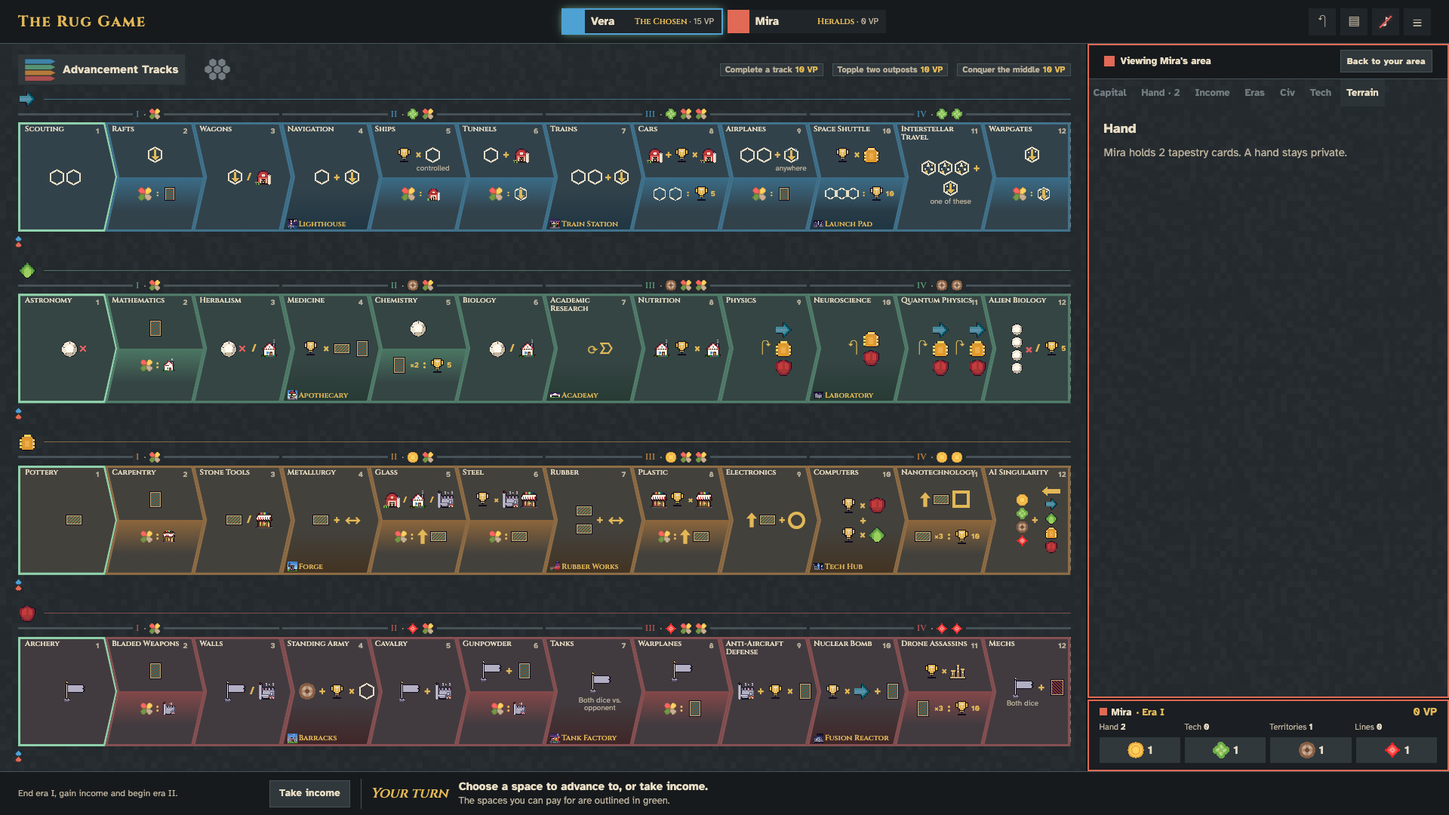
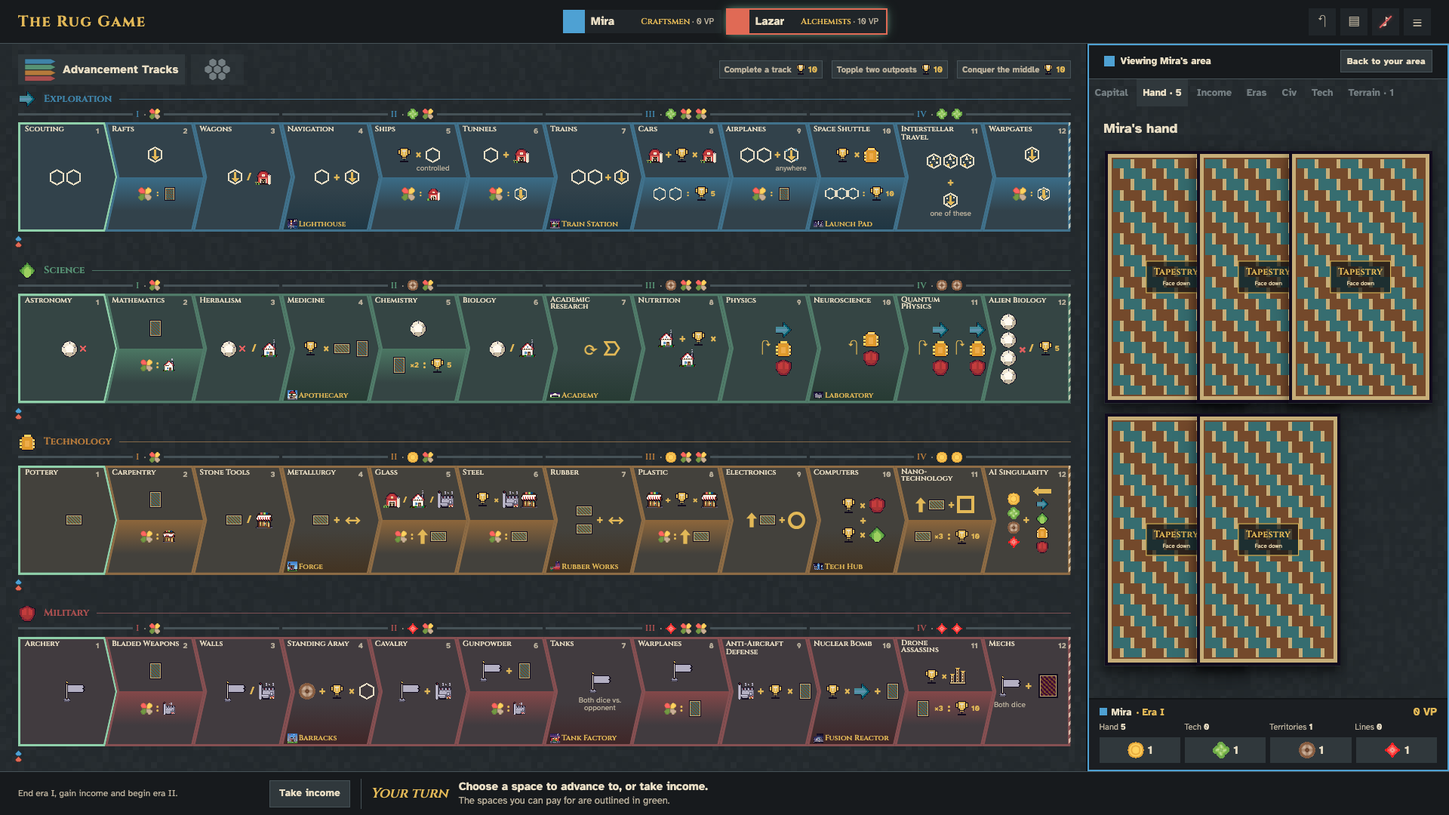
Fix #158: draw the hand's tapestry cards big enough to read
The Hand tab drew its cards at 0.42 in one fan overlapping by 70 px,
cutting off their names. The owner chose rows of overlapping cards
(option B of docs/ui/prompt-and-hand.html): cards at 0.6, as many to a
row as leave each covered card 120 px for its name.

fanRows() in card-sizes.js works out the rows; CardFan's new wrap prop
measures its width and lays the cards on a grid of them. Both hands use
it: the viewer's cards and another player's backs (#156). Hover and
focus still raise a card and show it in full.

The player-area browser test gives the screen a hand of five and checks
the rows at every desktop size.

diff --git a/src/lib/components/player/CardFan.svelte b/src/lib/components/player/CardFan.svelte
@@ -13,6 +13,8 @@
 	 * @property {'hand' | 'shelf'} [look='hand'] - 'hand': the hovered card rises and the chosen one has the focus outline; 'shelf': as a decision's card shelf, the hovered and chosen cards are outlined in gold, the chosen one glows and lifts, and a disabled one is faded
 	 * @property {boolean} [lift=true] - In the shelf look, whether the chosen card lifts; whole cards such as civilizations stay where they stand, so the outline fits them
 	 * @property {boolean} [interactive=true] - Whether cards are buttons that can be hovered, focused or selected; false draws a presentation-only fan
+	 * @property {boolean} [wrap=false] - Lay the cards in rows across the fan's width, as many to a row as leave each covered card enough to show its name, instead of one row overlapping by `overlap` (#158)
+	 * @property {number} [cardWidth=0] - With `wrap`: one card's drawn width, such as its ScaledCard's
 	 * @property {string} [label='Cards'] - Names the list for assistive technology
 	 * @property {Function} [onCardFanInspect] - Callback fired with { index, item } on hover or focus, and { index: null, item: null } on leave
 	 * @property {Function} [onCardFanSelect] - Callback fired with { index } when a card is clicked or chosen with Enter
@@ -31,6 +33,7 @@
 
 <script>
 	import { ComponentEvent } from '../../component-event.js';
+	import { FAN_ROWS, fanRows } from '../../cards/card-sizes.js';
 
 	/** @type {CardFanProps} */
 	let {
@@ -44,11 +47,19 @@
 		look = 'hand',
 		lift = true,
 		interactive = true,
+		wrap = false,
+		cardWidth = 0,
 		label = 'Cards',
 		onCardFanInspect,
 		onCardFanSelect,
 		...attr
 	} = $props();
+
+	/** The fan's width, which a wrapped fan fills with rows. */
+	let width = $state(0);
+	let rows = $derived(
+		wrap ? fanRows(width, cardWidth, items.length, FAN_ROWS) : null
+	);
 
 	/**
 	 * @param {Event} event
@@ -104,6 +115,18 @@
 			? selected.includes(index)
 			: index === selected;
 	}
+
+	/**
+	 * A card's pull under the one before it: none for the first, nor in rows, which space their cards by grid.
+	 * @param {number} index
+	 * @returns {string | undefined}
+	 */
+	function margin(index) {
+		if (rows) {
+			return undefined;
+		}
+		return index === 0 ? '0' : `${-overlap}px`;
+	}
 </script>
 
 <div
@@ -112,14 +135,18 @@
 	{...attr}
 	class="rg-card-fan rg-card-fan--{look} {attr.class ?? ''}"
 	class:rg-card-fan--static={!interactive}
-	class:rg-card-fan--flat={!lift}>
+	class:rg-card-fan--flat={!lift}
+	class:rg-card-fan--wrap={wrap}
+	style:--rg-card-fan-per-row={rows?.perRow}
+	style:--rg-card-fan-step={rows ? `${rows.step}px` : undefined}
+	bind:clientWidth={width}>
 	{#each items as item, index (key ? key(item, index) : index)}
 		{#if interactive}
 			<button
 				type="button"
 				class="rg-card-fan--card"
 				class:rg-card-fan--selected={chosen(index)}
-				style:margin-left={index === 0 ? '0' : `${-overlap}px`}
+				style:margin-left={margin(index)}
 				aria-pressed={selected === null ? undefined : chosen(index)}
 				aria-label={labels?.[index]}
 				disabled={disabled.includes(index)}
@@ -134,7 +161,7 @@
 			<div
 				role="img"
 				class="rg-card-fan--card"
-				style:margin-left={index === 0 ? '0' : `${-overlap}px`}
+				style:margin-left={margin(index)}
 				aria-label={labels?.[index]}>
 				{@render card(item, index)}
 			</div>
@@ -147,6 +174,21 @@
 		display: flex;
 		align-items: flex-start;
 		padding: var(--space-3) 0 var(--space-8);
+	}
+
+	/* Rows across the fan's width (issue 158): each column is a step wide and a card overhangs the next one's start, so it
+	   covers the card before it; the last card of a row fits, as fanRows() keeps it inside the width. */
+	.rg-card-fan--wrap {
+		display: grid;
+		grid-template-columns: repeat(
+			var(--rg-card-fan-per-row),
+			var(--rg-card-fan-step)
+		);
+		row-gap: var(--space-6);
+	}
+
+	.rg-card-fan--wrap .rg-card-fan--card {
+		width: max-content;
 	}
 
 	/* On a shelf the cards stand on one line; the shelf around the fan gives the room. */

diff --git a/src/library/sections/player/CardFan.svelte b/src/library/sections/player/CardFan.svelte
@@ -9,6 +9,15 @@
 	import Section from '../../Section.svelte';
 
 	const hand = ['academia', 'age-of-discovery', 'age-of-sail', 'trap'];
+	const long = [
+		'industrialism',
+		'trade-economy',
+		'alliance',
+		'feudalism',
+		'renaissance',
+	];
+	/** The Hand tab's scale (#158). */
+	const scale = 0.6;
 
 	/** @type {string | null} */
 	let inspected = $state(null);
@@ -59,6 +68,46 @@
 				</div>
 			{/snippet}
 		</CardFan>
+	</Example>
+	<Example
+		label="wrap cardWidth={191}  (the Hand tab's rows in its 436 px at 1920×1080, #158; another player's backs use them too)"
+		wide>
+		<div style:width="436px">
+			<CardFan
+				items={long}
+				wrap
+				cardWidth={scale * CARD_SIZES.tapestry.width}
+				label="Tapestry cards in hand"
+				onCardFanInspect={(/** @type {any} */ event) =>
+					(inspected = event.value.item)}>
+				{#snippet card(/** @type {string} */ id)}
+					<ScaledCard
+						{scale}
+						{...CARD_SIZES.tapestry}>
+						<TapestryCard {id} />
+					</ScaledCard>
+				{/snippet}
+			</CardFan>
+		</div>
+	</Example>
+	<Example
+		label="wrap cardWidth={191} at 316 px  (1440×900: two to a row)"
+		wide>
+		<div style:width="316px">
+			<CardFan
+				items={long.slice(0, 3)}
+				wrap
+				cardWidth={scale * CARD_SIZES.tapestry.width}
+				label="Tapestry cards in hand">
+				{#snippet card(/** @type {string} */ id)}
+					<ScaledCard
+						{scale}
+						{...CARD_SIZES.tapestry}>
+						<TapestryCard {id} />
+					</ScaledCard>
+				{/snippet}
+			</CardFan>
+		</div>
 	</Example>
 	<Example
 		label={`look="shelf" selected={[${paid.join(', ')}]} disabled={[${waiting.join(', ')}]} overlap={72}  (several chosen; the rest wait once two are; CardShelf's look)`}

diff --git a/src/lib/cards/card-sizes.js b/src/lib/cards/card-sizes.js
@@ -33,3 +33,32 @@ export function fitScale(available, tallest, { min, room }) {
 	}
 	return Math.min(1, Math.max(min, (available - room) / tallest));
 }
+
+/** How a hand's rows space their cards (#158): a covered card shows at least `minStep` pixels, enough for its name, and cards that fit side by side keep `gap` between them. */
+export const FAN_ROWS = Object.freeze({ minStep: 120, gap: 14 });
+
+/**
+ * Rows of overlapping cards across a width (#158): how many cards a row holds and how far apart their left edges are,
+ * in whole pixels. A row holds as many cards as leave each covered one `minStep` pixels, but no more than there are; the
+ * last card of a row shows in full. Until the width is measured, a row holds one card.
+ * @param {number} width - The width the rows may take, in CSS pixels; 0 while unmeasured
+ * @param {number} cardWidth - One card's drawn width
+ * @param {number} count - How many cards there are
+ * @param {{ minStep: number, gap: number }} spacing - FAN_ROWS
+ * @returns {{ perRow: number, step: number }}
+ */
+export function fanRows(width, cardWidth, count, { minStep, gap }) {
+	const apart = Math.floor(cardWidth + gap);
+	if (width <= cardWidth) {
+		return { perRow: 1, step: apart };
+	}
+	const fit = Math.floor((width - cardWidth) / minStep) + 1;
+	const perRow = Math.max(1, Math.min(count, fit));
+	if (perRow === 1) {
+		return { perRow, step: apart };
+	}
+	return {
+		perRow,
+		step: Math.min(apart, Math.floor((width - cardWidth) / (perRow - 1))),
+	};
+}

diff --git a/src/screens/game/PlayerTabs.svelte b/src/screens/game/PlayerTabs.svelte
@@ -93,6 +93,9 @@
 		...attr
 	} = $props();
 
+	/** The Hand tab's cards, big enough to read their text, as the Eras tab's era card is (#158). */
+	const HAND_SCALE = 0.6;
+
 	/** The viewer's seat: `seat` itself unless another is given. */
 	let viewerSeat = $derived(viewer === undefined ? seat : viewer);
 	let own = $derived(viewerSeat === seat);
@@ -210,13 +213,14 @@
 			{#if own && hand.length}
 				<CardFan
 					items={hand}
-					overlap={70}
+					wrap
+					cardWidth={HAND_SCALE * CARD_SIZES.tapestry.width}
 					label="Tapestry cards in hand"
 					onCardFanInspect={(/** @type {ComponentEvent} */ event) =>
 						inspect('tapestry', event.value.item, event)}>
 					{#snippet card(/** @type {string} */ id)}
 						<ScaledCard
-							scale={0.42}
+							scale={HAND_SCALE}
 							{...CARD_SIZES.tapestry}>
 							<TapestryCard data={tapestryCardData(id)} />
 						</ScaledCard>
@@ -230,11 +234,12 @@
 					items={opponentHand}
 					labels={handLabels}
 					interactive={false}
-					overlap={70}
+					wrap
+					cardWidth={HAND_SCALE * CARD_SIZES.tapestry.width}
 					label={words.handHeading}>
 					{#snippet card()}
 						<ScaledCard
-							scale={0.42}
+							scale={HAND_SCALE}
 							{...CARD_SIZES.tapestry}>
 							<TapestryCardBack
 								frame={false}

diff --git a/README.md b/README.md
@@ -30,7 +30,7 @@ The component library now uses the approved resources in prices and chips, incom
 
 The **UI/UX handoff for #3** is in [docs/ui/README.md](docs/ui/README.md). It is the manifest for building the real game pages: layout, typography, colours, control states, placement and decision examples. The HTML pages are interactive mockups with fixture data.
 
-**The landing page, the lobby (#25) and the play screen (#26) are built** and run on the real table API. Sign in by name, create or join a table, set it up and start; then play: the Advancement Tracks with the spaces you can pay for, the World Map as the real board's hex grid, composed from the terrain art (#6), the footer turn (income, or advance), and a designed prompt for every other decision (#28): resources and payments with their art, cards on a shelf above the panel, the map's territories with each explore's tile, turn and VP, buildings and landmarks placed on the Capital tab, dice and tracks, and the gold income turn with its steps. Several resources, cards or tiles are picked one by one, as on Board Game Arena (#75): each resource to choose is a row of the four resources, cards and tiles are pictures pressed several at once, and the panel sits at the screen's centre; an advance with a choice of payment opens that panel as soon as its space is picked. Every roll of the dice tumbles in the middle of every screen at the table, lands on the rolled faces under a caption, and fades (#61). A first turn is never a choice, so the game takes every player's income turn 1 as setup ends; each player then sees a notice, once, saying so and what they start with. A turn with no advance to pay for says so, with a gold **Take income** where **Advance** sits (#77). A turn does not pass the moment its last choice resolves (#146): the footer says "Nothing left to do this turn" with a gold **End turn** that counts down 6 seconds, so you can see what the choice did and take it back with Undo; pressing it, or the countdown ending, passes the turn. Income turn 1, which nobody chooses, passes at once. **How to play** in the game's menu explains the rules in our own words, one tab per part of the game, and a **Keyboard shortcuts** entry opens it on the list of every shortcut; hovering a player's chip reads their civilization's full ability (#42). The game plays from the keyboard too (#83): **I** takes income after asking first (as the **Take income** button does), **A** then **1–4** advances on a track, **Q W E R T Y U** switch the player tabs, **M** goes to the World Map, **1–5** show a player's tabs, and holding **Tab** shows the log and scores. Each track space shows its benefit and its bonus, as on the printed board (#59); at setup each capital mat on offer is its real 9×9 grid (#56) and the civilization cards are whole at full size (#57, #58). Each base mat's impassable plots are one 2.5D picture, its relief, laid over natural ground (#82): mountains, woods, reed beds round dark pools, jungle, desert buttes and rocky hills that join across the grid lines where the plots touch, with no red X. The Architects' cubes are small pieces on their plots, and a building on an impassable plot clears the relief there. The player area (#27) has the Capital, Hand, Income, Eras, Civ, Tech and Terrain tabs, with real tech and tapestry cards. Clicking another player's chip in the header shows their tabs in the player area, read-only and bordered in their colour, with their hand as a count and a face-down tapestry card as a back; their compact summary also follows the inspected player, without revealing private information (#145, #157, owner 2026-10-30). Their chip again, your own, **Back to your area** or Escape goes back, restoring your own summary and pending-resource preview. A whole base game can be played with the mouse. At a hot-seat table, a pass screen (#30) stands between players: it names the next one, whose view isn't even loaded until they take the screen. A defender at a hot-seat table answers a conquest themselves, trap or not, so nothing gives a trap away. When the game ends, the results screen (#29) shows the final standings with each player's VP by source, how any tie was decided and the table's rules; the host can deal again. The header's log button opens the table log and the current scores; sound cues start muted, and a little motion marks what just happened. **Plans & Ploys** can be switched on in the lobby (#32): as setup ends the players draft landmark cards, the last player drawing one per player and each keeping one, shown on the Civ tab with how far its goal is; the card's landmark comes at the end of the turn its goal is met; and the space stack adds three tiles that give 5 VP whenever you advance on their track, and the Monolith. Its 13 tapestry cards are in the deck (#33): among them Entertain the Masses with the Stadium, and five response cards. A defender may answer a conquest with Retreat, Surprise Party or Surrender as well as a trap, and an attacker may cancel a trap with Double Cross or Stolen Plans, asked whenever they hold any card so nobody learns who holds one; How to play has a Response cards tab. Its civilizations join the deck too (#33, #165): all 10, so a Plans & Ploys table deals from 26. The Islanders' card on the Civ tab is a wide seascape with their mat over it: the printed centre hex and six hexes round it, which light up when an explore may land there (#165). Each plays as its mat says: hovering the player's chip reads its full text, and its card on the Civ tab shows what it has used, the Tinkerers' and Spies' options struck through and the Utilitarians' tokens beside the landmarks they switch on; the Treasure Hunters' dice tumble in the tray, and the tile on the Aliens' mat shows on the Terrain tab. With Plans & Ploys on, the lobby also offers the variant **All civilizations from Plans & Ploys**, which deals only those 10 (R116). **Dark cards** in every header menu (#167) is a switch that turns every card dark, the same cards on walnut paper with cream text under a near-black title band, and the browser remembers it, in the card gallery too. Run `npm start` and open <http://127.0.0.1:3020/>.
+**The landing page, the lobby (#25) and the play screen (#26) are built** and run on the real table API. Sign in by name, create or join a table, set it up and start; then play: the Advancement Tracks with the spaces you can pay for, the World Map as the real board's hex grid, composed from the terrain art (#6), the footer turn (income, or advance), and a designed prompt for every other decision (#28): resources and payments with their art, cards on a shelf above the panel, the map's territories with each explore's tile, turn and VP, buildings and landmarks placed on the Capital tab, dice and tracks, and the gold income turn with its steps. Several resources, cards or tiles are picked one by one, as on Board Game Arena (#75): each resource to choose is a row of the four resources, cards and tiles are pictures pressed several at once, and the panel sits at the screen's centre; an advance with a choice of payment opens that panel as soon as its space is picked. Every roll of the dice tumbles in the middle of every screen at the table, lands on the rolled faces under a caption, and fades (#61). A first turn is never a choice, so the game takes every player's income turn 1 as setup ends; each player then sees a notice, once, saying so and what they start with. A turn with no advance to pay for says so, with a gold **Take income** where **Advance** sits (#77). A turn does not pass the moment its last choice resolves (#146): the footer says "Nothing left to do this turn" with a gold **End turn** that counts down 6 seconds, so you can see what the choice did and take it back with Undo; pressing it, or the countdown ending, passes the turn. Income turn 1, which nobody chooses, passes at once. **How to play** in the game's menu explains the rules in our own words, one tab per part of the game, and a **Keyboard shortcuts** entry opens it on the list of every shortcut; hovering a player's chip reads their civilization's full ability (#42). The game plays from the keyboard too (#83): **I** takes income after asking first (as the **Take income** button does), **A** then **1–4** advances on a track, **Q W E R T Y U** switch the player tabs, **M** goes to the World Map, **1–5** show a player's tabs, and holding **Tab** shows the log and scores. Each track space shows its benefit and its bonus, as on the printed board (#59); at setup each capital mat on offer is its real 9×9 grid (#56) and the civilization cards are whole at full size (#57, #58). Each base mat's impassable plots are one 2.5D picture, its relief, laid over natural ground (#82): mountains, woods, reed beds round dark pools, jungle, desert buttes and rocky hills that join across the grid lines where the plots touch, with no red X. The Architects' cubes are small pieces on their plots, and a building on an impassable plot clears the relief there. The player area (#27) has the Capital, Hand, Income, Eras, Civ, Tech and Terrain tabs, with real tech and tapestry cards; the Hand tab draws your tapestry cards big enough to read, at 0.6 in rows of overlapping cards that each show at least their name, and hovering one shows it in full (#158). Clicking another player's chip in the header shows their tabs in the player area, read-only and bordered in their colour, with their hand as card backs in the same rows and a face-down tapestry card as a back; their compact summary also follows the inspected player, without revealing private information (#145, #157, owner 2026-10-30). Their chip again, your own, **Back to your area** or Escape goes back, restoring your own summary and pending-resource preview. A whole base game can be played with the mouse. At a hot-seat table, a pass screen (#30) stands between players: it names the next one, whose view isn't even loaded until they take the screen. A defender at a hot-seat table answers a conquest themselves, trap or not, so nothing gives a trap away. When the game ends, the results screen (#29) shows the final standings with each player's VP by source, how any tie was decided and the table's rules; the host can deal again. The header's log button opens the table log and the current scores; sound cues start muted, and a little motion marks what just happened. **Plans & Ploys** can be switched on in the lobby (#32): as setup ends the players draft landmark cards, the last player drawing one per player and each keeping one, shown on the Civ tab with how far its goal is; the card's landmark comes at the end of the turn its goal is met; and the space stack adds three tiles that give 5 VP whenever you advance on their track, and the Monolith. Its 13 tapestry cards are in the deck (#33): among them Entertain the Masses with the Stadium, and five response cards. A defender may answer a conquest with Retreat, Surprise Party or Surrender as well as a trap, and an attacker may cancel a trap with Double Cross or Stolen Plans, asked whenever they hold any card so nobody learns who holds one; How to play has a Response cards tab. Its civilizations join the deck too (#33, #165): all 10, so a Plans & Ploys table deals from 26. The Islanders' card on the Civ tab is a wide seascape with their mat over it: the printed centre hex and six hexes round it, which light up when an explore may land there (#165). Each plays as its mat says: hovering the player's chip reads its full text, and its card on the Civ tab shows what it has used, the Tinkerers' and Spies' options struck through and the Utilitarians' tokens beside the landmarks they switch on; the Treasure Hunters' dice tumble in the tray, and the tile on the Aliens' mat shows on the Terrain tab. With Plans & Ploys on, the lobby also offers the variant **All civilizations from Plans & Ploys**, which deals only those 10 (R116). **Dark cards** in every header menu (#167) is a switch that turns every card dark, the same cards on walnut paper with cream text under a near-black title band, and the browser remembers it, in the card gallery too. Run `npm start` and open <http://127.0.0.1:3020/>.
 
 **The boards (#6)** are drawn: the map's six terrain hex pictures, the 48 territory tiles (clouds exactly where R77 says), both map sides as examples, and the 12 advanced capital biomes with their example mats. The game composes its map from the terrain pictures, as it composes the capital from its plot tiles. They wait for the owner's approval in the component library's Art part.
 
@@ -47,6 +47,10 @@ The colours, texture, type, spacing, shadows and motion of these designs are in 
 | Play: the player area (Capital) | Play: another player's tabs (#145) |
 |---|---|
 | ![The play screen with the Capital tab (#82): Teodor's Wetland mat, its reed beds and dark pools joined across the grid over a wet meadow, an Architects' cube on the top-left plot, and the completion counters](docs/ui/screens/game-player-area.png) | ![Vera's turn with Mira's chip pressed (#145, #157): Mira's Tropical capital and public summary in the player area, both bordered in her red, under "Viewing Mira's area" and Back to your area](docs/ui/screens/game-opponent-tabs.png) |
+
+| Play: your hand (#158) | Another player's hand (#156, #158) |
+|---|---|
+| ![Mira's Hand tab with five tapestry cards at a readable size, Industrialism, Trade Economy and Alliance in a row of three, each covered card showing its name and the start of its text, and Feudalism and Renaissance in a second row](docs/ui/screens/game-hand.png) | ![Lazar viewing Mira's area: her Hand tab shows five tapestry card backs in the same rows of three and two, without their faces](docs/ui/screens/game-opponent-hand.png) |
 
 | Another player's eras (#143, #145) | Another player's territory tiles (#143, #145) |
 |---|---|

diff --git a/docs/status.md b/docs/status.md
@@ -2,7 +2,7 @@
 
 The only record of the project's progress (owner, 2026-10-28): what is done and what comes next, then issue by issue what each issue built, the calls to revisit after playing, and what it handed on to later issues. CLAUDE.md links here and holds no progress of its own. Claude and Codex both update this file whenever an issue lands or a milestone moves: the summary below and the issue's entry (see CLAUDE.md and AGENTS.md).
 
-Updated 2026-11-02. The issues are listed in the order they were finished.
+Updated 2026-11-03. The issues are listed in the order they were finished.
 
 On 2026-10-31, landmark-granting technology cards gained the same shared gray tooltip detail used by track landmarks when their square benefit is hovered. This completes the tech-card hover detail portion of #63; the issue remains open for its other display locations.
 
@@ -10,7 +10,7 @@ On 2026-10-31, landmark-granting technology cards gained the same shared gray to
 
 - **At a glance:**
   - M0 to M5 are built: a whole base game can be played with the mouse, online or hot-seat. One of their issues is still open: #45 (the owner checks R12 and R39 against the box).
-  - M12 · Cosmetic enhancements: #61, #66, #67, #68, #69, #70, #72, #74, #75, #79, #80, #77, #78, #84, #85 and #137 are done. #142's original lift-up solution is deprecated in favor of the owner's later income mat decisions in #151 (see [the #142 history](#142-revealing-a-covered-income-space--original-lift-up-design)). #82 (the joined terrain of the base mats) is done: its branch merged into main on 2026-10-29. #134 (the World Map's terrain in the 2.5D style) is done: the owner approved its art on 2026-10-29 (see [its entry](#134-the-world-maps-terrain-in-the-25d-style)). #167 (dark cards, switched in the header menu) is done (see [its entry](#167-dark-cards)).
+  - M12 · Cosmetic enhancements: #61, #66, #67, #68, #69, #70, #72, #74, #75, #79, #80, #77, #78, #84, #85 and #137 are done. #142's original lift-up solution is deprecated in favor of the owner's later income mat decisions in #151 (see [the #142 history](#142-revealing-a-covered-income-space--original-lift-up-design)). #82 (the joined terrain of the base mats) is done: its branch merged into main on 2026-10-29. #134 (the World Map's terrain in the 2.5D style) is done: the owner approved its art on 2026-10-29 (see [its entry](#134-the-world-maps-terrain-in-the-25d-style)). #167 (dark cards, switched in the header menu) is done (see [its entry](#167-dark-cards)). #158 (the Hand tab's cards big enough to read) is done (see [its entry](#158-the-hand-tabs-cards-big-enough-to-read)).
   - M13 · Refactor (new on 2026-10-29, owner) holds the refactors that #80's scan filed, each with an area label: Words and names, Cards, Track board, Players and scoring, Capital and map, Game screen or Lobby. #86, #87, #89, #90, #91, #93, #97, #98, #99, #100, #113, #119, #130, #123, #127, #126, #129, #88, #101, #108, #109, #124, #128 and #95 are done, and #121 closed as not planned. On 2026-10-30 a third batch landed together on one branch, built in parallel: #92, #102, #103, #105, #111, #114, #115, #116, #120, #122 and #131 (see [its entry](#m13-refactors-third-batch-2026-10-30)); #102 and #116 each leave the owner a look to decide. #106 is built in its eight steps the same day; the owner checked the card gallery, and its fixes close it. A fourth batch landed the same way the same evening: #94, #96, #104, #107, #110, #112, #117 and #118, with the bugs #157 and #81 (see [its entry](#m13-refactors-fourth-batch-with-157-and-81)). The owner checked #107 and #117 in the library and closed them on 2026-10-30. #166 (the engine's import cycle) is built on 2026-11-02 (see [its entry](#166-the-engines-import-cycle)).
   - M7 · Plans & Ploys: #32 (landmark cards, the new space tiles, the expansion switch) is built, started before its blocker #31 on the owner's ruling, and merged into main on 2026-10-31 (see [its entry](#32-plans--ploys-rules-landmark-cards-and-space-tiles)). #33 is built on the branch `issue-33-pp-content`, not yet merged: its first part, the 13 tapestry cards and the response cards (see [its entry](#33-part-1-plans--ploys-tapestry-and-response-cards)), then 9 of the 10 civilizations and the variant "All civilizations from Plans & Ploys" (see [its entry](#33-parts-2-and-3-plans--ploys-civilizations-and-the-variant)). Its commit `Fix #33` closes it once pushed, which waits for the owner. The Islanders are built in #165 (see [its entry](#165-the-islanders)), so Plans & Ploys deals 26 civilizations. #34 (the Automa civilizations) is out of the owner's scope for now.
   - M8 · Arts & Architecture: #132 (the six mats' joined 2.5D reliefs) is built and the owner approved it in the component library on 2026-10-31, on the branch `issue-132-aa-reliefs`, not yet merged (see [its entry](#132-the-arts--architecture-mats-reliefs)). #35 and #36 wait for #34, and #37 and #38 follow them.
@@ -1320,3 +1320,11 @@ Built on 2026-11-02 on the branch `issue-33-pp-content`, not yet merged. The com
 - **Claude's calls, to revisit:** (1) the badge sits at the lower left, 0.7 × the tile's badge, because the top of the hex holds the clouds and the middle holds the island and the pieces; where an outpost stands on the hex it still overlaps the badge; (2) a previewed tile (before the explore) shows no benefit yet.
 - **Not done:** the owner's approval of the look in the library's WorldMap section (the mid-game fixture), and then the README's map screenshot.
 - **Tests:** `client-hexmap` (the tile on the hex, the badge and its words), `client-island-mat`, the browser test in `library.test.mjs`.
+
+### #158 (the Hand tab's cards big enough to read)
+
+- **Asked:** the Hand tab drew the tapestry cards at 0.42 in one fan overlapping by 70 px, so the names were cut off and the effect text was a few pixels high.
+- **Owner's choice (2026-11-03):** option B of `docs/ui/prompt-and-hand.html`: rows of overlapping cards at 0.6, every card's name in sight, rather than A's two columns of whole cards that scroll sooner. Design: `docs/superpowers/specs/2026-11-03-hand-cards-design.md`.
+- **Built:** `fanRows()` and `FAN_ROWS` in `src/lib/cards/card-sizes.js`: a row holds as many cards as leave each covered one 120 px, apart by 14 px when they fit side by side. `CardFan` gains `wrap` and `cardWidth`: it measures its width and lays its cards on a grid of those rows. `PlayerTabs` draws both hands, yours and another player's backs (#156), with `wrap` at `HAND_SCALE` 0.6. At 1920×1080 that is three to a row, 122 px apart; two at 1536 and 1440; one card whole to a row at 1366 and 1280. Hover and focus still raise a card and show it in full.
+- **Tests:** `scaled-card.test.mjs` (`fanRows` at each width, the wrapped fan, both hands in `PlayerTabs`); the player-area browser test gives the screen a hand of five and checks, at every desktop size, that each card is 0.6 wide, inside the area, and that every covered card shows 120 px. The library's CardFan section shows the rows at 436 and 316 px.
+- **Screenshots:** `docs/ui/screens/game-hand.png` (new) and `game-opponent-hand.png` (retaken), from a running game whose screen was given the hand for the picture.

diff --git a/docs/ui/README.md b/docs/ui/README.md
@@ -21,7 +21,7 @@ The owner-reviewed #5 icon mockup and its linked capital terrain page are preser
 | [card-design-rules.md](card-design-rules.md) | Owner-approved Civilization, Technology and Tapestry card layouts, including sizes, effects, timing and placement rules |
 | [edition-chips.html](edition-chips.html) | The edition chip of every card family, as it was and as proposed (#109). The owner chose one chip for all, each expansion in its own card colour, with Fantasies & Futures in teal (2026-10-29). Screenshot: `screens/edition-chips-options.png` |
 | [opponent-actions.html](opponent-actions.html) | What other players just did (#153), awaiting the owner's choice: their tapestry card, advance, tech card, explore, conquer and income turn, as a panel at the tracks' centre (A) or a strip above the footer (B), over screenshots of the running game. Design notes and questions: `docs/superpowers/specs/2026-10-30-opponent-actions-design.md`. Screenshots: `screens/issue-153/` |
-| [prompt-and-hand.html](prompt-and-hand.html) | Three changes awaiting the owner's choice (2026-11-03), over screenshots of the running game restyled to each option: the Hand tab's cards drawn big enough to read (#158), in two columns (A) or overlapping rows (B); minimizing a decision prompt to look at the board (#149), restored from the footer (1) or a bar on the board (2); and the prompts' words for tapestry and civilization choices, before and after (#148). Open it directly from disk. Screenshots: `screens/issues-148-149-158/` |
+| [prompt-and-hand.html](prompt-and-hand.html) | Three changes the owner chose from on 2026-11-03: B for #158, the footer (1) for #149, and the proposed words for #148, over screenshots of the running game restyled to each option: the Hand tab's cards drawn big enough to read (#158), in two columns (A) or overlapping rows (B); minimizing a decision prompt to look at the board (#149), restored from the footer (1) or a bar on the board (2); and the prompts' words for tapestry and civilization choices, before and after (#148). Open it directly from disk. Screenshots: `screens/issues-148-149-158/` |
 | Plans & Ploys' response cards (#33) | Built from the existing patterns without a mockup round (owner, 2026-11-01): the attacker's counter is the response question's panel, and the rules sit in How to play's Response cards tab. Screenshots from a running game: `screens/game-pp-counter.png` and `screens/game-pp-response-cards.png` |
 | Plans & Ploys' civilizations (#33) | Built from the existing patterns without a mockup round (owner, 2026-11-01); the nine new civilization cards await the owner's review in the component library. Screenshots from a running game: `screens/game-pp-civ-card.png`, `screens/game-pp-infiltrators-civ.png`, `screens/game-pp-advisors-gift.png`, and the lobby's variant in `screens/lobby-pp-variant.png` and `screens/lobby-pp-variant-refused.png` (see "Built in #33" below) |
 | [landmark-cards.html](landmark-cards.html) | Plans & Ploys' landmark cards in play (#32), with the production `LandmarkCard` and `DecisionPanel` over screenshots of the running game: the draft on the card shelf, where the kept card lives (A, the Civ tab, or B, a line above the summary), and the goal met at the end of a turn (the card above the placing panel, or words only). The owner chose the draft as drawn, A and the card above the panel (2026-10-31); the game is built so. Served by Vite (`npm run dev`, then `/docs/ui/landmark-cards.html`), as it mounts Svelte components. Screenshots: `screens/issue-32/`, and the built screens in `screens/game-landmark-draft.png` and `screens/game-landmark-civ-tab.png` |
@@ -227,7 +227,7 @@ The arrangement and selection styling are the reference. Labels such as Archipel
 
 ![The player area with the Capital tab: Teodor's Wetland mat with its relief (#82) and an Architects' cube on the top-left plot](screens/game-player-area.png)
 
-- **The tabs** are the mockup's: Capital (the seat's real mat and plots, landmarks over the edge allowed, the counters, and what lies beside the mat), Hand (the tapestry cards overlapping; hovering shows one in full over the shared area), Income (the four rows, covered spaces with their building, exposed ones with their reward in words), Eras (the four slots, a face-down card shown as such, the active card in full), Civ (the reviewed card for the twelve base civilizations with a recipe, a plain portrait card for the other four until #47), Tech (the three rows and the display with the deck count) and Terrain (territory tiles drawn like the map's, and space tiles, with each tile's centered benefit icon and matching hover words since #150).
+- **The tabs** are the mockup's: Capital (the seat's real mat and plots, landmarks over the edge allowed, the counters, and what lies beside the mat), Hand (the tapestry cards at 0.6, big enough to read, in rows across the tab, as many to a row as leave each covered card 120 px for its name, owner's option B of `prompt-and-hand.html`, #158; hovering shows one in full over the shared area), Income (the four rows, covered spaces with their building, exposed ones with their reward in words), Eras (the four slots, a face-down card shown as such, the active card in full), Civ (the reviewed card for the twelve base civilizations with a recipe, a plain portrait card for the other four until #47), Tech (the three rows and the display with the deck count) and Terrain (territory tiles drawn like the map's, and space tiles, with each tile's centered benefit icon and matching hover words since #150).
 - **Real cards:** the tech and tapestry cards are built from the engine's data through `describe.js`; no text is invented. Lazar's fixtures stay for the library and the card review.
 - **Tab switching:** a decision about a tab's things opens that tab by itself.
 - **The players overview** opened from the chips, as in the mockup: one card per player, and Capital, Civilization or Tech of any player on the right. Since #145 (below) nothing opens it; its code stays.
@@ -240,7 +240,9 @@ The arrangement and selection styling are the reference. Labels such as Archipel
 
 ![Vera's turn with Mira's chip pressed: Mira's Tropical capital and public summary in the player area, both bordered in her red, under Viewing Mira's area and Back to your area](screens/game-opponent-tabs.png)
 
-![Mira's Hand tab seen by Vera: her tapestry cards shown as backs with the card faces and identities hidden](screens/game-opponent-hand.png)
+![Your Hand tab (#158): five tapestry cards at a readable size, three to a row at 1920×1080, each covered card showing its name; the screen was given the hand for the picture](screens/game-hand.png)
+
+![Mira's Hand tab seen by Lazar: her five tapestry cards shown as backs in the same rows, with the card faces and identities hidden (#156, #158)](screens/game-opponent-hand.png)
 
 ![Mira's eras in Vera's player area, with her public summary below](screens/game-opponent-eras.png)
 

diff --git a/docs/superpowers/specs/2026-11-03-hand-cards-design.md b/docs/superpowers/specs/2026-11-03-hand-cards-design.md
@@ -1,0 +1,37 @@
+# The Hand tab's cards big enough to read (#158): design
+
+## Intent
+
+The Hand tab drew the viewer's tapestry cards at 0.42 (134 px wide) in one fan overlapping by 70 px, so a card's name was cut off and its effect text was about 5 px high. The cards should be drawn big enough to read in the tab itself, and hovering a card still opens it in full.
+
+## Owner's decision (2026-11-03)
+
+The mockup `docs/ui/prompt-and-hand.html` (screenshots in `docs/ui/screens/issues-148-149-158/`) offered two layouts over the running game:
+
+- A: two columns at 0.65, each card fully readable, a long hand scrolling the tab;
+- B: rows of overlapping cards at 0.6, every card's name in sight, a covered card's text cut until it is hovered.
+
+The owner chose **B**.
+
+## The layout
+
+- Each card is drawn at 0.6 (about 191 px wide), the size of the era card on the Eras tab.
+- The cards fill rows across the tab's width. A row holds as many cards as fit while each covered card still shows at least 120 px, enough for its name, and never more cards than the hand has. The last card of each row shows in full. Cards that fit side by side keep a 14 px gap instead of overlapping.
+  - 1920×1080: the tab is about 436 px wide, so three to a row, 122 px apart.
+  - 1536×864 and 1440×900: two to a row.
+  - 1366×768 and 1280×720: one to a row, each card whole.
+- Rows stand 14 px apart; a hand taller than the tab scrolls it, as the tab already does.
+- Hovering or focusing a card raises it in front of its neighbours without moving them, and reports it for the full view (`inspect`), as the fan did. Tab and Shift+Tab move through the cards in hand order.
+- Another player's hand (#156) draws its card backs in the same rows at the same size, so the two tabs match.
+
+## How it is built
+
+- `fanRows(width, cardWidth, count, spacing)` in `src/lib/cards/card-sizes.js` works out the row length and the distance between the cards' left edges, with `FAN_ROWS` holding the 120 px and the 14 px. It is a plain function, tested under Vitest.
+- `CardFan` gets a `wrap` prop with the card's drawn `cardWidth`: it measures its own width and lays its cards on a grid of `fanRows()`'s columns instead of one overlapping row. Its other looks are unchanged, and the Tech tab and the card shelf keep their one row.
+- `PlayerTabs` draws both hands with `wrap` at the scale `HAND_SCALE` (0.6).
+
+## Tests
+
+- `fanRows()` at the widths above, with fewer cards than a row holds, and unmeasured.
+- The player-area browser test (#64) gives the viewer five cards and, at each desktop size, checks that every card lies inside the player area and every covered card shows at least 120 px.
+- The library's CardFan section shows the wrapped rows.

diff --git a/src/lib/components/README.md b/src/lib/components/README.md
@@ -158,7 +158,7 @@ The owner decisions are in [card-design-rules.md](../../../docs/ui/card-design-r
 | `player/TapestryCardBack` | Full 319×560 portrait back, drawn from `static/art/card-back/tapestry.svg` (vectorized from its native PNG); shared by face-down tapestry actions, public opponent hand fans and face-down era cards (#153, #156) |
 | `player/CapitalMatFace` | A capital mat on offer: its `name` on a card band over its 9×9 `CapitalGrid` (`plots`, `biome`, the table's `terrainSeed`), 392 px wide; the shelf draws one per mat (#56, #118) |
 | `player/CardPreview` | A tech or tapestry card shown in full over the shared area from its `kind` and `id`, or the `data` a decision's shelf already drew (#96, #118): the scrim, or `side` beside a shelf at the left without one; no pointer |
-| `player/CardFan` | Overlapping cards; hover or focus raises one and reports its index and item for a full view (#96). `interactive={false}` draws a static decorative fan such as another player's private hand without exposing card data. `selected` takes one index or several, `disabled` cards wait, `labels` name them, `key` keeps a card's button when the items change; the `shelf` look is `CardShelf`'s, with gold outlines and the chosen card lifted unless `lift` is false (#92, #156) |
+| `player/CardFan` | Overlapping cards; hover or focus raises one and reports its index and item for a full view (#96). `interactive={false}` draws a static decorative fan such as another player's private hand without exposing card data. `selected` takes one index or several, `disabled` cards wait, `labels` name them, `key` keeps a card's button when the items change; the `shelf` look is `CardShelf`'s, with gold outlines and the chosen card lifted unless `lift` is false (#92, #156). `wrap` with the card's drawn `cardWidth` lays the cards in rows across the fan's width instead, as many to a row as leave each covered card 120 px (`fanRows()`), as the Hand tab does (#158) |
 | `player/CardResource` | Native 24 px inline icon without changing row spacing; `fine` for 11 px supporting text, and a container centres it with `--card-resource-center` and `--card-resource-height` instead of styling it (#106) |
 | `player/PlayerToken` | A player's token, from its seat (#103) or one of the five supplied shaded 32 px colour variants |
 | `player/CardSlot` | Compact, large or prediction square, never larger than 75 px, `filled` with the 2 px border in the player's colour (#106); `pickable`, a button with the green available outline that reports `onCardSlotPick` with its `value`, gold when `picked` (#78) |

diff --git a/docs/superpowers/plans/2026-11-03-hand-cards-issue-158.md b/docs/superpowers/plans/2026-11-03-hand-cards-issue-158.md
@@ -1,0 +1,12 @@
+# The Hand tab's cards big enough to read (#158): plan
+
+Design: `docs/superpowers/specs/2026-11-03-hand-cards-design.md`. Built inline, test-first, in one commit.
+
+1. Mockup over the running game (`docs/ui/prompt-and-hand.html`); the owner chose option B (2026-11-03).
+2. Tests in `tests/scaled-card.test.mjs` for `fanRows()`, the wrapped `CardFan` and both hands in `PlayerTabs`; watch them fail.
+3. `fanRows()` and `FAN_ROWS` in `src/lib/cards/card-sizes.js`.
+4. `CardFan`'s `wrap` and `cardWidth`: measured width, a grid of rows, no overlap margins.
+5. `PlayerTabs`: both hands wrapped at `HAND_SCALE` 0.6.
+6. The library's CardFan section and `src/lib/components/README.md`.
+7. The player-area browser test: a hand of five at every desktop size.
+8. Screenshots, README, `docs/ui/README.md` and `docs/status.md`.
